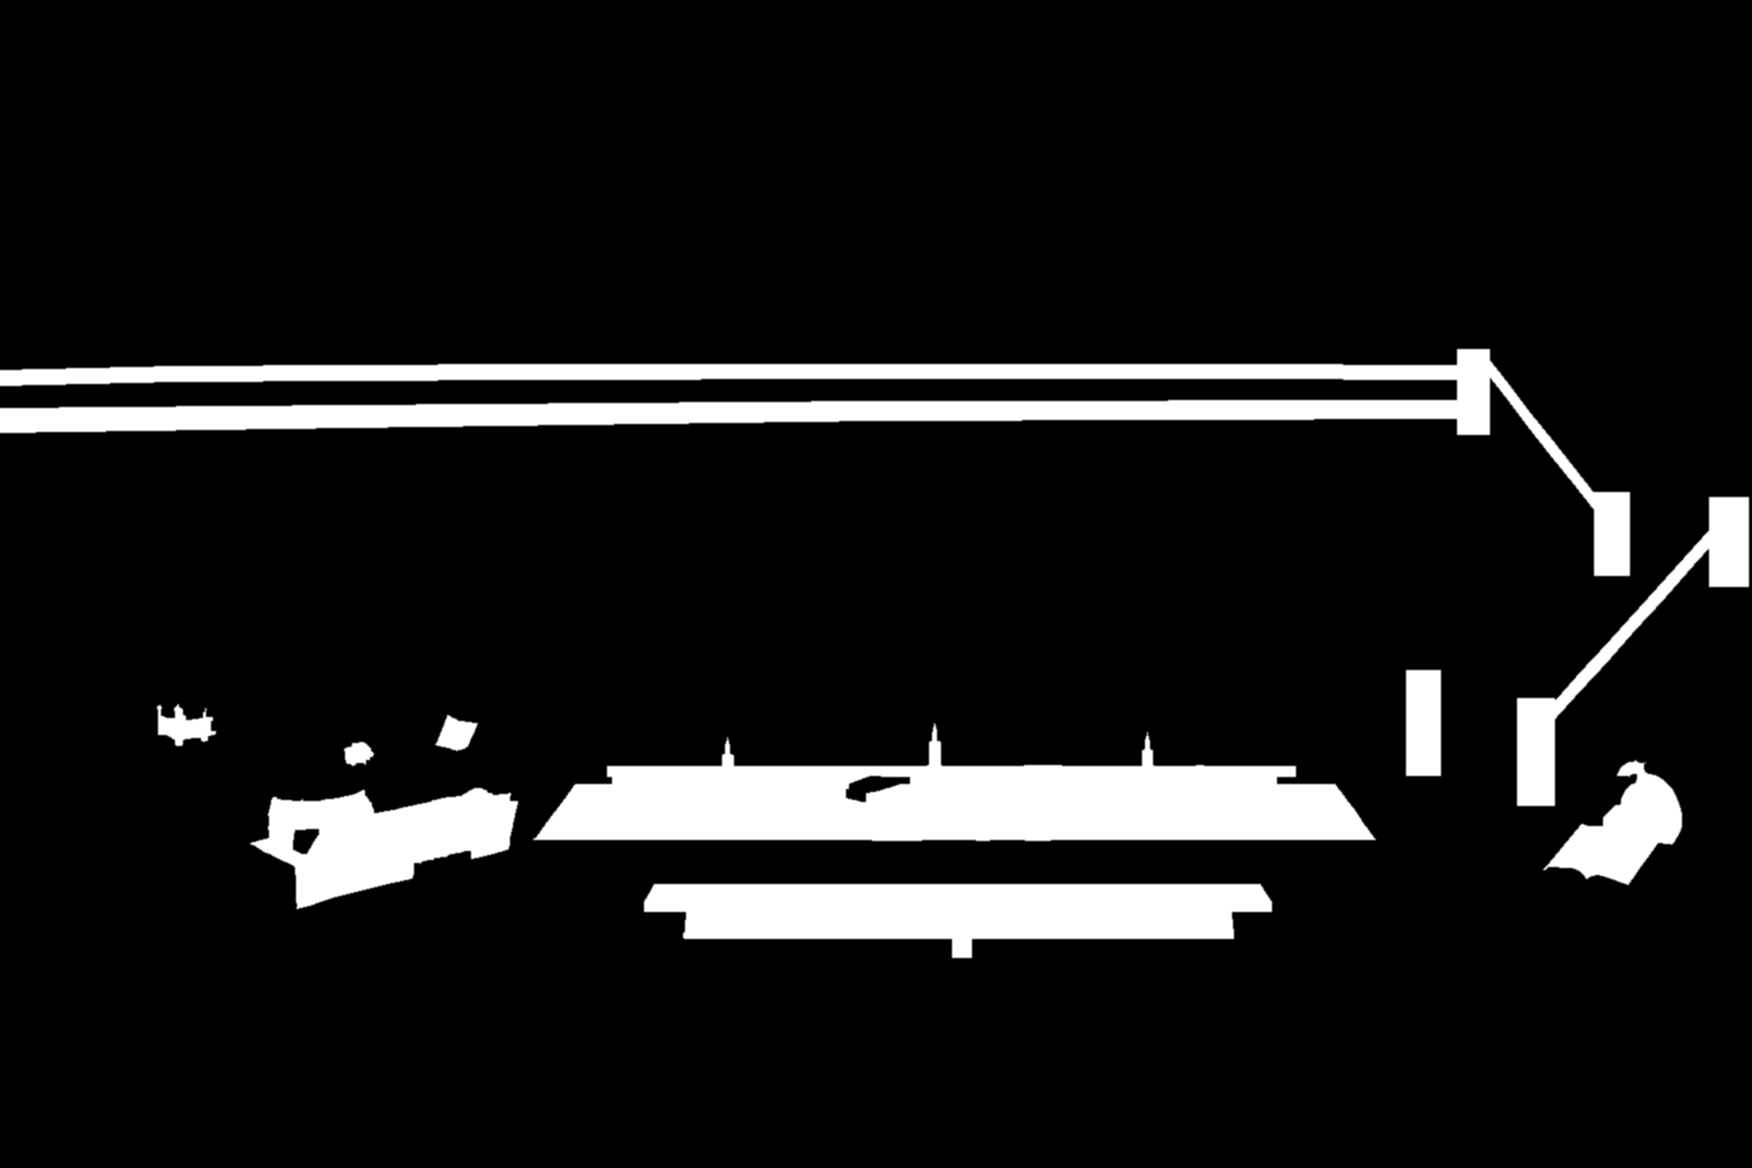
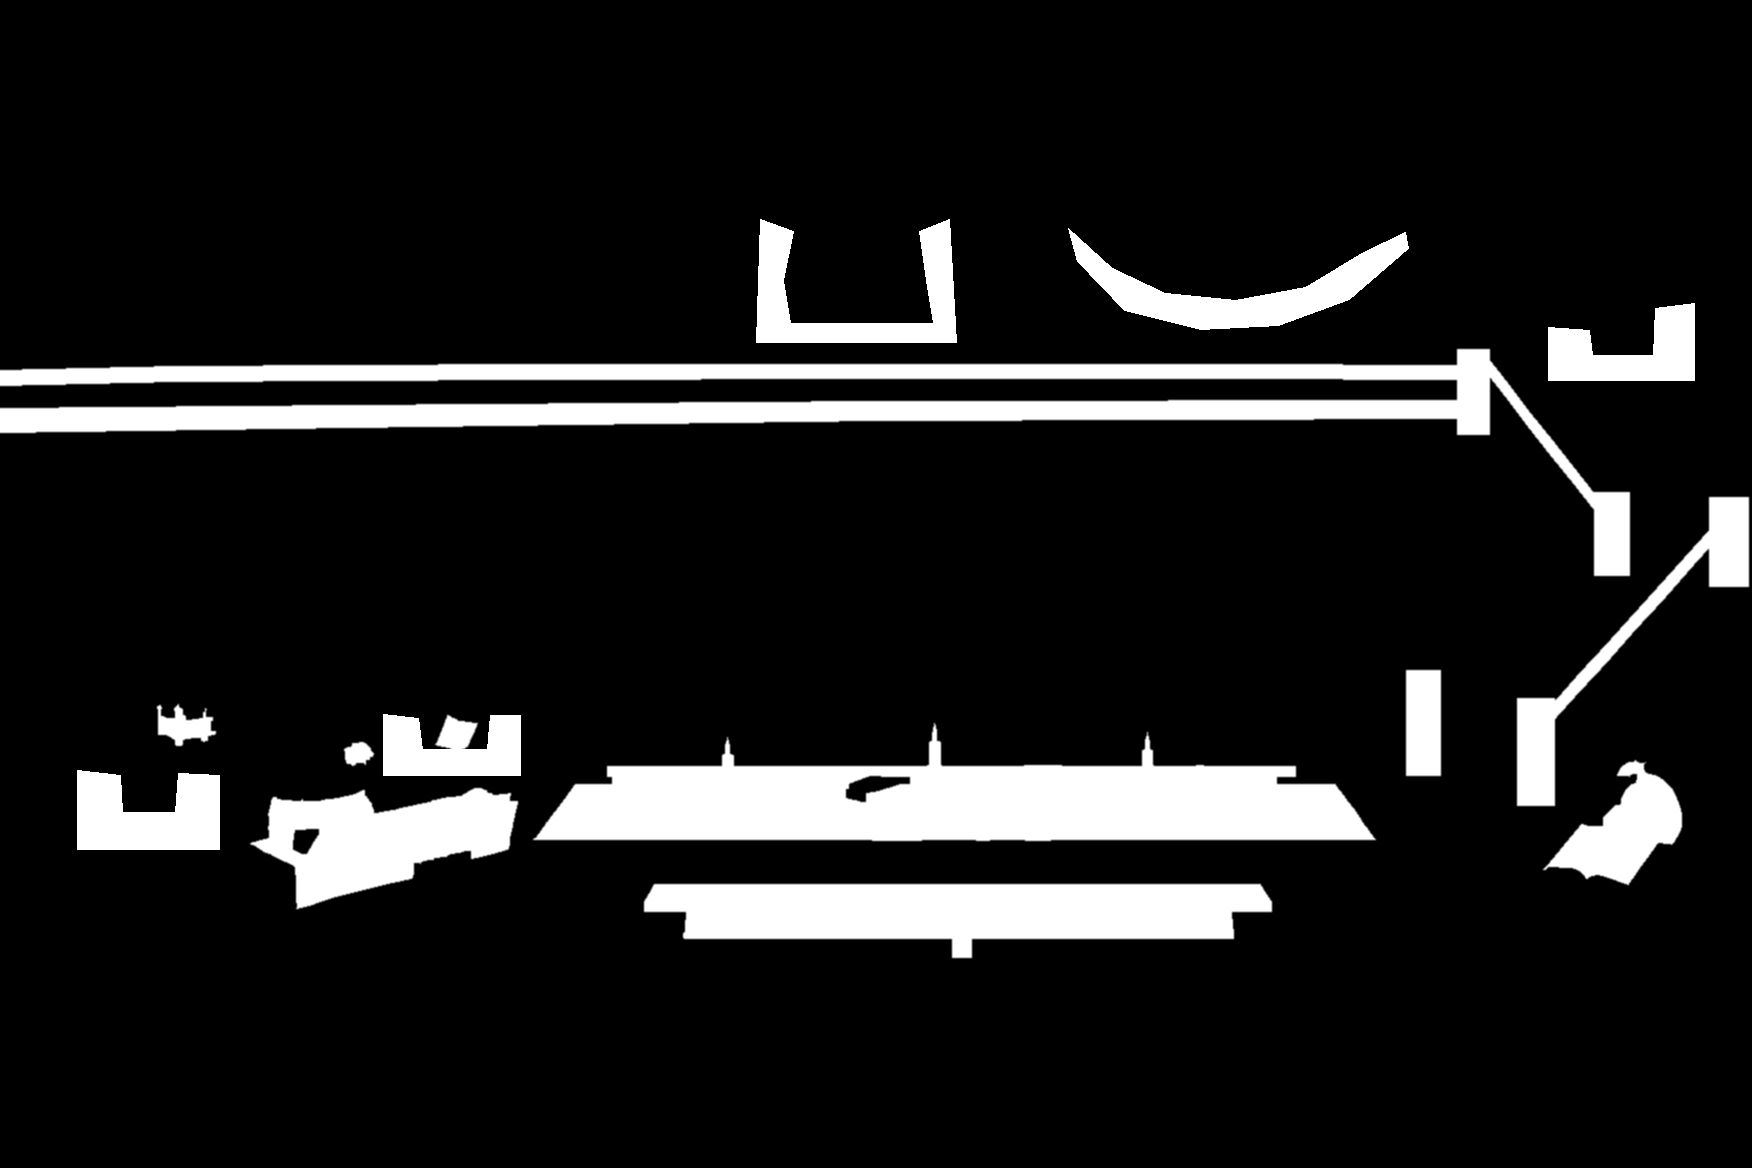
도서관 자세: 1인 소파 기대 앉기, 해먹 눕기(흔들림), 나무 구멍 웅크리기, 창가석 앞보며 서로 살짝 마주보기 + 가구 앞면 덮개로 파묻힌 느낌
Claude-Session: https://claude.ai/code/session_01V1uW48asEmbAkskT1r7mEz

diff --git a/index.html b/index.html
@@ -202,7 +202,7 @@ const PLACES={
     glows:[[52,61,11,'255,160,70',true],[24,27,6,'255,190,110'],[24.5,45,5,'255,190,110'],[35,19,6,'255,190,110'],[55,36,8,'255,200,120'],[72,24,7,'255,190,110'],[69.5,33,4,'255,190,110'],[24.5,52,4,'255,190,110']],
     occ:[{"p":[[41.8,40],[47,40],[47,52.3],[41.8,52.3]],"b":52},{"p":[[53,15.5],[55.8,15.5],[55.6,50.5],[53.3,50.5]],"b":50},{"p":[[69.8,19],[74.2,19],[74,34],[72.5,34],[72.5,55.5],[70,55.5]],"b":55},{"p":[[33.8,57],[38,54],[41.3,56.5],[42.3,62],[40.3,69.5],[35,66.5],[33.8,62]],"b":66},{"p":[[59,52.5],[63,49.8],[66,52],[66.3,58],[64.5,63.3],[59.3,61]],"b":61.5},{"p":[[29.8,66.5],[37.3,66.5],[37.3,76],[29.8,76]],"b":75.5},{"p":[[65.3,55],[72.3,55],[72.3,66.3],[65.3,66.3]],"b":65.5},{"p":[[40.3,68],[44,67],[50,69],[50,74.5],[46,75.2],[40.3,72.5]],"b":74.5},{"p":[[56.3,67],[62,65.5],[64.3,67.5],[63.5,72],[58,74],[56.3,71]],"b":73},{"p":[[46.3,59],[52,56.5],[57.8,59],[58.3,66],[52,70],[46.3,66]],"b":69},{"p":[[61.3,71],[68.5,71],[68.5,81.3],[61.3,81.3]],"b":80.5},{"p":[[42.6,56.5],[46.3,56.5],[46,61.5],[43,61.5]],"b":61.2},{"p":[[55,58],[58.3,58],[58,63],[55.3,63]],"b":62.8},{"p":[[56.2,78.5],[60.8,78.5],[60.5,86],[56.5,86]],"b":85.5}],
     flies:false,sea:{x0:30,x1:100,y0:22,y1:44}},
-  library:{"label":"도서관","img":"library","ar":1.5,"size":0.1,"charVh":0.137,"gx":240,"gy":160,"fg":1.18,"dust":true,"leaves":[[-2,97,22,11,false],[102,95,20,29,true],[-4,55,14,7,false],[104,60,14,41,true],[6,3,16,5,false],[94,4,16,13,true],[50,104,14,3,false]],"walk":[[[1,68],[3.5,66.5],[13,64.6],[27.5,63.6],[30.5,59.8],[34,58.9],[64,58.9],[79.5,59.3],[80.2,66.8],[81.6,68.4],[88.8,69.3],[92,66],[99,64.2],[99,88],[94,91],[90,99.6],[12,99.6],[6,92],[1,86]],[[81.6,68.4],[88.8,69.3],[97.6,49.2],[91.3,48.8]],[[91,46],[97.8,45.5],[98,50],[91.5,50]],[[84.8,33.2],[89,32.2],[97,45.5],[92,46.5]],[[1,30],[83,30],[84.5,30.3],[98.5,30.8],[98.5,34.2],[90,34.5],[85,35],[60,34.4],[30,34.8],[1,35.2]]],"block":[],"seats":[{"x":8.8,"y":69,"look":[18,70],"ax":9.5,"ay":75},{"x":25.4,"y":64.6,"look":[18,73],"ax":33.2,"ay":61.2},{"x":18.5,"y":71.5,"look":[16,58],"behind":true,"ax":11.5,"ay":74},{"x":25,"y":70.5,"look":[20,58],"behind":true,"ax":33.2,"ay":62.6},{"x":41,"y":76.6,"look":[41,60],"ax":41,"ay":85.2},{"x":49.5,"y":76.6,"look":[49.5,60],"ax":49.5,"ay":85.2},{"x":58,"y":76.6,"look":[58,60],"ax":58,"ay":85.2},{"x":66.5,"y":76.6,"look":[66.5,60],"ax":66.5,"ay":85.2},{"x":39,"y":65.4,"look":[39,85],"behind":true,"ax":39,"ay":61.2},{"x":47,"y":65.4,"look":[47,85],"behind":true,"ax":47,"ay":61.2},{"x":61,"y":65.4,"look":[61,85],"behind":true,"ax":61,"ay":61.2},{"x":69,"y":65.4,"look":[69,85],"behind":true,"ax":69,"ay":61.2},{"x":14.5,"y":27.6,"look":[14.5,45],"ax":14.5,"ay":31.6},{"x":27,"y":27.6,"look":[27,15],"behind":true,"ax":27,"ay":31.6},{"x":50,"y":27.4,"look":[50,45],"ax":50,"ay":31.6},{"x":71.5,"y":25.5,"look":[71.5,45],"ax":71.5,"ay":31.6},{"x":93.2,"y":29.6,"look":[86,34],"ax":88.2,"ay":33}],"exits":[{"poly":[[42,94],[58,94],[58,99.6],[42,99.6]],"to":"plaza","spawn":[48,42.5],"face":[48,60]}],"glows":[[17,53,24,"255,140,55",true],[41,63,5,"255,200,120"],[53,62.5,5,"255,200,120"],[65.5,63,5,"255,200,120"],[93,62,6,"255,200,120"],[89.5,22,6,"255,200,120"],[5,47,5,"255,190,110"],[24.5,45,5,"255,190,110"]],"occ":[{"p":[[4.5,59.3],[9,58.8],[12.3,61],[12.3,67.9],[9.5,68.3],[4.5,66.3]],"b":68,"fp":[[4.4,62.5],[12.4,62.5],[12.4,72.6],[4.4,72.6]]},{"p":[[22.5,55.4],[27,54.9],[29.1,57],[29.1,63.7],[26,64.3],[22.5,62.6]],"b":64,"fp":[[20.5,59.5],[30.5,59.5],[30.5,68.5],[20.5,68.5]]},{"p":[[13.7,59.2],[21.4,59.2],[21.4,67],[13.7,67]],"b":66.8,"fp":[[13.8,62.5],[21.3,62.5],[21.3,66.9],[13.8,66.9]]},{"p":[[13.7,68.5],[23,67.4],[29.7,67.5],[29.7,73.8],[22,78.7],[13.9,78.6]],"b":78.4,"fp":[[13.8,69],[29.8,68.5],[29.8,75],[22.5,79.6],[13.9,79.5]]},{"p":[[30.3,66.4],[34.2,64.2],[34.2,62.5],[40.5,62.5],[40.5,59.5],[42,59.5],[42,62.5],[52.5,62.5],[52.5,59.5],[54,59.5],[54,62.5],[64.8,62.5],[64.8,59.5],[66.3,59.5],[66.3,62.5],[74,62.5],[74,64.2],[78.5,66.4],[78.5,73.5],[76.8,80.6],[73,80.6],[72.5,74.8],[36.5,74.8],[36,80.6],[31.5,80.6],[30.3,73.5]],"b":80.4,"fp":[[32.4,66.4],[76.4,66.4],[76.4,81],[32.4,81]],"fp2":[[34.2,64.2],[74,64.2],[74,66.8],[34.2,66.8]]},{"p":[[36.4,75.2],[72.9,75.2],[72.9,82],[36.4,82]],"b":82,"fp":[[36.4,75.2],[72.9,75.2],[72.9,82],[36.4,82]]},{"p":[[85,59],[92,58],[98.6,62],[98.6,70],[96.2,73.2],[98.2,78.4],[98.6,84.6],[84,84.9],[83.5,79],[88,76],[87,72],[84.5,69]],"b":84.6,"fp":[[84.2,75],[99,75],[99,90.8],[84.2,90.8]]},{"p":[[0,31.7],[10,31.4],[30,31.2],[50,31.2],[70,31.2],[83.3,31.3],[83.3,32.5],[70,32.4],[50,32.4],[30,32.5],[10,32.7],[0,33.0]],"b":37,"band":true},{"p":[[0,35.0],[20,34.7],[50,34.4],[83.3,34.3],[83.3,35.8],[50,36.0],[20,36.6],[0,37.0]],"b":37,"band":true},{"p":[[80.3,57.4],[82.2,57.4],[82.2,66.4],[80.3,66.4]],"b":66.6,"band":true,"fp":[[80.3,63],[82.2,63],[82.2,66.4],[80.3,66.4]],"thin":true},{"p":[[86.6,59.8],[88.7,59.8],[88.7,69],[86.6,69]],"b":69.2,"band":true,"fp":[[86.6,66],[88.7,66],[88.7,69],[86.6,69]],"thin":true},{"p":[[91,42.2],[93,42.2],[93,49.3],[91,49.3]],"b":49.6,"band":true,"fp":[[91,47],[93,47],[93,49.3],[91,49.3]],"thin":true},{"p":[[97.6,42.6],[99.8,42.6],[99.8,50.2],[97.6,50.2]],"b":50.4,"band":true},{"p":[[83.2,29.9],[85,29.9],[85,37.2],[83.2,37.2]],"b":37.4,"band":true},{"p":[[88.6,60.3],[90.17,57.7],[90.17,59.2],[88.6,61.8]],"b":66.8,"band":true},{"p":[[90.17,57.7],[91.73,55.1],[91.73,56.6],[90.17,59.2]],"b":64.2,"band":true},{"p":[[91.73,55.1],[93.3,52.5],[93.3,54.0],[91.73,56.6]],"b":61.6,"band":true},{"p":[[93.3,52.5],[94.87,49.9],[94.87,51.4],[93.3,54.0]],"b":59.0,"band":true},{"p":[[94.87,49.9],[96.43,47.3],[96.43,48.8],[94.87,51.4]],"b":56.4,"band":true},{"p":[[96.43,47.3],[98.0,44.7],[98.0,46.2],[96.43,48.8]],"b":53.8,"band":true},{"p":[[84.9,30.6],[86.14,32.98],[86.14,34.38],[84.9,32.0]],"b":38.48,"band":true},{"p":[[86.14,32.98],[87.38,35.36],[87.38,36.76],[86.14,34.38]],"b":40.86,"band":true},{"p":[[87.38,35.36],[88.62,37.74],[88.62,39.14],[87.38,36.76]],"b":43.24,"band":true},{"p":[[88.62,37.74],[89.86,40.12],[89.86,41.52],[88.62,39.14]],"b":45.62,"band":true},{"p":[[89.86,40.12],[91.1,42.5],[91.1,43.9],[89.86,41.52]],"b":48.0,"band":true}],"flies":false,"sea":null,"book":{"x":86,"y":93},"candles":[{"x":48.259,"y":38.741,"w":2.397,"h":6.122,"u0":0.0,"v0":0.0,"u1":0.125,"v1":0.5},{"x":44.15,"y":42.509,"w":2.312,"h":5.522,"u0":0.125,"v0":0.0,"u1":0.24553571428571427,"v1":0.45104895104895104},{"x":39.555,"y":43.622,"w":2.312,"h":5.693,"u0":0.25,"v0":0.0,"u1":0.3705357142857143,"v1":0.46503496503496505},{"x":58.733,"y":43.579,"w":2.34,"h":5.779,"u0":0.375,"v0":0.0,"u1":0.49702380952380953,"v1":0.47202797202797203},{"x":66.267,"y":45.12,"w":2.255,"h":5.437,"u0":0.5,"v0":0.0,"u1":0.6175595238095238,"v1":0.44405594405594406},{"x":50.856,"y":45.462,"w":2.283,"h":5.437,"u0":0.625,"v0":0.0,"u1":0.7440476190476191,"v1":0.44405594405594406},{"x":36.301,"y":46.704,"w":2.283,"h":5.265,"u0":0.75,"v0":0.0,"u1":0.8690476190476191,"v1":0.43006993006993005},{"x":46.632,"y":47.175,"w":2.283,"h":5.522,"u0":0.875,"v0":0.0,"u1":0.9940476190476191,"v1":0.45104895104895104},{"x":63.042,"y":47.432,"w":2.255,"h":5.094,"u0":0.0,"v0":0.5,"u1":0.11755952380952381,"v1":0.916083916083916},{"x":56.906,"y":48.587,"w":2.312,"h":5.608,"u0":0.125,"v0":0.5,"u1":0.24553571428571427,"v1":0.958041958041958},{"x":41.981,"y":49.572,"w":2.34,"h":5.865,"u0":0.25,"v0":0.5,"u1":0.37202380952380953,"v1":0.9790209790209791},{"x":33.961,"y":50.471,"w":2.283,"h":5.437,"u0":0.375,"v0":0.5,"u1":0.49404761904761907,"v1":0.9440559440559441},{"x":61.073,"y":51.455,"w":2.283,"h":5.351,"u0":0.5,"v0":0.5,"u1":0.6190476190476191,"v1":0.9370629370629371},{"x":69.064,"y":51.413,"w":2.283,"h":5.693,"u0":0.625,"v0":0.5,"u1":0.7440476190476191,"v1":0.965034965034965},{"x":51.313,"y":52.911,"w":2.312,"h":5.265,"u0":0.75,"v0":0.5,"u1":0.8705357142857143,"v1":0.9300699300699301},{"x":38.356,"y":54.752,"w":2.255,"h":5.18,"u0":0.875,"v0":0.5,"u1":0.9925595238095238,"v1":0.9230769230769231}]}
+  library:{"label":"도서관","img":"library","ar":1.5,"size":0.1,"charVh":0.137,"gx":240,"gy":160,"fg":1.18,"dust":true,"leaves":[[-2,97,22,11,false],[102,95,20,29,true],[-4,55,14,7,false],[104,60,14,41,true],[6,3,16,5,false],[94,4,16,13,true],[50,104,14,3,false]],"walk":[[[1,68],[3.5,66.5],[13,64.6],[27.5,63.6],[30.5,59.8],[34,58.9],[64,58.9],[79.5,59.3],[80.2,66.8],[81.6,68.4],[88.8,69.3],[92,66],[99,64.2],[99,88],[94,91],[90,99.6],[12,99.6],[6,92],[1,86]],[[81.6,68.4],[88.8,69.3],[97.6,49.2],[91.3,48.8]],[[91,46],[97.8,45.5],[98,50],[91.5,50]],[[84.8,33.2],[89,32.2],[97,45.5],[92,46.5]],[[1,30],[83,30],[84.5,30.3],[98.5,30.8],[98.5,34.2],[90,34.5],[85,35],[60,34.4],[30,34.8],[1,35.2]]],"block":[],"seats":[{"x":8.8,"y":69,"look":[13,80],"ax":9.5,"ay":75,"pose":"chair","z":69.2},{"x":25.4,"y":64.6,"look":[18,73],"ax":33.2,"ay":61.2,"pose":"chair","z":64.9},{"x":18.5,"y":71.5,"look":[16,58],"behind":true,"ax":11.5,"ay":74},{"x":25,"y":70.5,"look":[20,58],"behind":true,"ax":33.2,"ay":62.6},{"x":41,"y":76.6,"look":[41,60],"ax":41,"ay":85.2},{"x":49.5,"y":76.6,"look":[49.5,60],"ax":49.5,"ay":85.2},{"x":58,"y":76.6,"look":[58,60],"ax":58,"ay":85.2},{"x":66.5,"y":76.6,"look":[66.5,60],"ax":66.5,"ay":85.2},{"x":39,"y":65.4,"look":[39,85],"behind":true,"ax":39,"ay":61.2},{"x":47,"y":65.4,"look":[47,85],"behind":true,"ax":47,"ay":61.2},{"x":61,"y":65.4,"look":[61,85],"behind":true,"ax":61,"ay":61.2},{"x":69,"y":65.4,"look":[69,85],"behind":true,"ax":69,"ay":61.2},{"x":17,"y":29.7,"look":[21.5,40],"ax":17,"ay":32.4,"pose":"perch"},{"x":25,"y":29.7,"look":[20.5,40],"ax":25,"ay":32.4,"pose":"perch"},{"x":48.6,"y":27.3,"look":[48.6,40],"ax":50,"ay":31.6,"pose":"nook","z":28.2},{"x":70.5,"y":26.2,"look":[70.5,40],"ax":71.5,"ay":31.6,"pose":"lie","z":27.0},{"x":92.6,"y":30.6,"look":[89,44],"ax":88.2,"ay":33,"pose":"chair","z":31.4}],"exits":[{"poly":[[42,94],[58,94],[58,99.6],[42,99.6]],"to":"plaza","spawn":[48,42.5],"face":[48,60]}],"glows":[[17,53,24,"255,140,55",true],[41,63,5,"255,200,120"],[53,62.5,5,"255,200,120"],[65.5,63,5,"255,200,120"],[93,62,6,"255,200,120"],[89.5,22,6,"255,200,120"],[5,47,5,"255,190,110"],[24.5,45,5,"255,190,110"]],"occ":[{"p":[[4.5,59.3],[9,58.8],[12.3,61],[12.3,67.9],[9.5,68.3],[4.5,66.3]],"b":68,"fp":[[4.4,62.5],[12.4,62.5],[12.4,72.6],[4.4,72.6]]},{"p":[[22.5,55.4],[27,54.9],[29.1,57],[29.1,63.7],[26,64.3],[22.5,62.6]],"b":64,"fp":[[20.5,59.5],[30.5,59.5],[30.5,68.5],[20.5,68.5]]},{"p":[[13.7,59.2],[21.4,59.2],[21.4,67],[13.7,67]],"b":66.8,"fp":[[13.8,62.5],[21.3,62.5],[21.3,66.9],[13.8,66.9]]},{"p":[[13.7,68.5],[23,67.4],[29.7,67.5],[29.7,73.8],[22,78.7],[13.9,78.6]],"b":78.4,"fp":[[13.8,69],[29.8,68.5],[29.8,75],[22.5,79.6],[13.9,79.5]]},{"p":[[30.3,66.4],[34.2,64.2],[34.2,62.5],[40.5,62.5],[40.5,59.5],[42,59.5],[42,62.5],[52.5,62.5],[52.5,59.5],[54,59.5],[54,62.5],[64.8,62.5],[64.8,59.5],[66.3,59.5],[66.3,62.5],[74,62.5],[74,64.2],[78.5,66.4],[78.5,73.5],[76.8,80.6],[73,80.6],[72.5,74.8],[36.5,74.8],[36,80.6],[31.5,80.6],[30.3,73.5]],"b":80.4,"fp":[[32.4,66.4],[76.4,66.4],[76.4,81],[32.4,81]],"fp2":[[34.2,64.2],[74,64.2],[74,66.8],[34.2,66.8]]},{"p":[[36.4,75.2],[72.9,75.2],[72.9,82],[36.4,82]],"b":82,"fp":[[36.4,75.2],[72.9,75.2],[72.9,82],[36.4,82]]},{"p":[[85,59],[92,58],[98.6,62],[98.6,70],[96.2,73.2],[98.2,78.4],[98.6,84.6],[84,84.9],[83.5,79],[88,76],[87,72],[84.5,69]],"b":84.6,"fp":[[84.2,75],[99,75],[99,90.8],[84.2,90.8]]},{"p":[[0,31.7],[10,31.4],[30,31.2],[50,31.2],[70,31.2],[83.3,31.3],[83.3,32.5],[70,32.4],[50,32.4],[30,32.5],[10,32.7],[0,33.0]],"b":37,"band":true},{"p":[[0,35.0],[20,34.7],[50,34.4],[83.3,34.3],[83.3,35.8],[50,36.0],[20,36.6],[0,37.0]],"b":37,"band":true},{"p":[[80.3,57.4],[82.2,57.4],[82.2,66.4],[80.3,66.4]],"b":66.6,"band":true,"fp":[[80.3,63],[82.2,63],[82.2,66.4],[80.3,66.4]],"thin":true},{"p":[[86.6,59.8],[88.7,59.8],[88.7,69],[86.6,69]],"b":69.2,"band":true,"fp":[[86.6,66],[88.7,66],[88.7,69],[86.6,69]],"thin":true},{"p":[[91,42.2],[93,42.2],[93,49.3],[91,49.3]],"b":49.6,"band":true,"fp":[[91,47],[93,47],[93,49.3],[91,49.3]],"thin":true},{"p":[[97.6,42.6],[99.8,42.6],[99.8,50.2],[97.6,50.2]],"b":50.4,"band":true},{"p":[[83.2,29.9],[85,29.9],[85,37.2],[83.2,37.2]],"b":37.4,"band":true},{"p":[[88.6,60.3],[90.17,57.7],[90.17,59.2],[88.6,61.8]],"b":66.8,"band":true},{"p":[[90.17,57.7],[91.73,55.1],[91.73,56.6],[90.17,59.2]],"b":64.2,"band":true},{"p":[[91.73,55.1],[93.3,52.5],[93.3,54.0],[91.73,56.6]],"b":61.6,"band":true},{"p":[[93.3,52.5],[94.87,49.9],[94.87,51.4],[93.3,54.0]],"b":59.0,"band":true},{"p":[[94.87,49.9],[96.43,47.3],[96.43,48.8],[94.87,51.4]],"b":56.4,"band":true},{"p":[[96.43,47.3],[98.0,44.7],[98.0,46.2],[96.43,48.8]],"b":53.8,"band":true},{"p":[[84.9,30.6],[86.14,32.98],[86.14,34.38],[84.9,32.0]],"b":38.48,"band":true},{"p":[[86.14,32.98],[87.38,35.36],[87.38,36.76],[86.14,34.38]],"b":40.86,"band":true},{"p":[[87.38,35.36],[88.62,37.74],[88.62,39.14],[87.38,36.76]],"b":43.24,"band":true},{"p":[[88.62,37.74],[89.86,40.12],[89.86,41.52],[88.62,39.14]],"b":45.62,"band":true},{"p":[[89.86,40.12],[91.1,42.5],[91.1,43.9],[89.86,41.52]],"b":48.0,"band":true},{"p":[[4.4,66],[6.9,66.4],[7,69.6],[10,69.6],[10.2,66.2],[12.5,66.4],[12.5,72.7],[4.4,72.7]],"b":72.8,"band":true,"ov":true},{"p":[[21.9,61.2],[23.9,61.5],[24.1,64.2],[27.8,64.2],[28,61.3],[29.7,61.3],[29.7,66.4],[21.9,66.4]],"b":66.5,"band":true,"ov":true},{"p":[[43.4,18.8],[45.3,19.8],[44.7,24],[45.1,27.7],[53.3,27.7],[52.9,24],[52.5,19.8],[54.2,18.8],[54.6,29.3],[43.2,29.3]],"b":29.4,"band":true,"ov":true},{"p":[[61,19.6],[63.5,23],[66.5,25.1],[70.5,25.7],[74.5,24.6],[77.8,21.6],[80.2,19.9],[80.4,21.3],[77,25.6],[73,27.9],[68.5,28.2],[64.2,26.6],[61.5,22.4]],"b":28.4,"band":true,"ov":true},{"p":[[88.4,28],[90.7,28.3],[90.9,30.4],[94.4,30.4],[94.5,26.4],[96.7,26],[96.7,32.6],[88.4,32.6]],"b":32.7,"band":true,"ov":true}],"flies":false,"sea":null,"book":{"x":86,"y":93},"candles":[{"x":48.259,"y":38.741,"w":2.397,"h":6.122,"u0":0.0,"v0":0.0,"u1":0.125,"v1":0.5},{"x":44.15,"y":42.509,"w":2.312,"h":5.522,"u0":0.125,"v0":0.0,"u1":0.24553571428571427,"v1":0.45104895104895104},{"x":39.555,"y":43.622,"w":2.312,"h":5.693,"u0":0.25,"v0":0.0,"u1":0.3705357142857143,"v1":0.46503496503496505},{"x":58.733,"y":43.579,"w":2.34,"h":5.779,"u0":0.375,"v0":0.0,"u1":0.49702380952380953,"v1":0.47202797202797203},{"x":66.267,"y":45.12,"w":2.255,"h":5.437,"u0":0.5,"v0":0.0,"u1":0.6175595238095238,"v1":0.44405594405594406},{"x":50.856,"y":45.462,"w":2.283,"h":5.437,"u0":0.625,"v0":0.0,"u1":0.7440476190476191,"v1":0.44405594405594406},{"x":36.301,"y":46.704,"w":2.283,"h":5.265,"u0":0.75,"v0":0.0,"u1":0.8690476190476191,"v1":0.43006993006993005},{"x":46.632,"y":47.175,"w":2.283,"h":5.522,"u0":0.875,"v0":0.0,"u1":0.9940476190476191,"v1":0.45104895104895104},{"x":63.042,"y":47.432,"w":2.255,"h":5.094,"u0":0.0,"v0":0.5,"u1":0.11755952380952381,"v1":0.916083916083916},{"x":56.906,"y":48.587,"w":2.312,"h":5.608,"u0":0.125,"v0":0.5,"u1":0.24553571428571427,"v1":0.958041958041958},{"x":41.981,"y":49.572,"w":2.34,"h":5.865,"u0":0.25,"v0":0.5,"u1":0.37202380952380953,"v1":0.9790209790209791},{"x":33.961,"y":50.471,"w":2.283,"h":5.437,"u0":0.375,"v0":0.5,"u1":0.49404761904761907,"v1":0.9440559440559441},{"x":61.073,"y":51.455,"w":2.283,"h":5.351,"u0":0.5,"v0":0.5,"u1":0.6190476190476191,"v1":0.9370629370629371},{"x":69.064,"y":51.413,"w":2.283,"h":5.693,"u0":0.625,"v0":0.5,"u1":0.7440476190476191,"v1":0.965034965034965},{"x":51.313,"y":52.911,"w":2.312,"h":5.265,"u0":0.75,"v0":0.5,"u1":0.8705357142857143,"v1":0.9300699300699301},{"x":38.356,"y":54.752,"w":2.255,"h":5.18,"u0":0.875,"v0":0.5,"u1":0.9925595238095238,"v1":0.9230769230769231}]}
 };
 const inPoly=(x,y,p)=>{let c=false;for(let i=0,j=p.length-1;i<p.length;j=i++){const[xi,yi]=p[i],[xj,yj]=p[j];if((yi>y)!==(yj>y)&&x<(xj-xi)*(y-yi)/(yj-yi)+xi)c=!c;}return c;};
 const inE=(x,y,e)=>((x-e.cx)/e.rx)**2+((y-e.cy)/e.ry)**2<=1;
@@ -319,7 +319,7 @@ function makeChar(name,x,y,isMe){const g=new THREE.Group(),tilt=new THREE.Group(
 function removeChar(c){scene.remove(c.g);c.tag.remove();if(c.bub)c.bub.remove();}
 const faceTo=(c,tx,ty)=>{c.face=Math.atan2(-(ty-c.y),(tx-c.x)*AR);};
 function say(c,text){if(c.bub)c.bub.remove();const b=document.createElement('div');b.className='bub';b.textContent=text;tagsEl.appendChild(b);c.bub=b;c.bubT=5.5;}
-function seatZ(s){if(s.behind)return s.y;let z=s.y;(P.occ||[]).forEach(o=>{if(inPoly(s.x,s.y,o.p))z=Math.max(z,o.b);});return z+0.6;}
+function seatZ(s){if(s.z!=null)return s.z;if(s.behind)return s.y;let z=s.y;(P.occ||[]).forEach(o=>{if(inPoly(s.x,s.y,o.p))z=Math.max(z,o.b);});return z+0.6;}
 const charH=(y)=>(P.sizeW?SW*P.sizeW:SH*P.size)*(0.78+0.45*y/100);
 function place(c,t){const px=c.x/100*SW,py=c.y/100*SH,s=charH(c.y);const zy=c.sitting&&c.seat?seatZ(c.seat)/100*SH:py;c.g.position.set(px,-py,zy*ZK);c.g.scale.setScalar(s);
   const moving=!!(c.path&&c.path.length);
@@ -327,7 +327,12 @@ function place(c,t){const px=c.x/100*SW,py=c.y/100*SH,s=charH(c.y);const zy=c.si
   if(moving)c.walk+=dt*(7+40*c.speed);
   c.u.uPhase.value=c.walk;c.u.uWalk.value=c.wW;c.u.uSit.value=c.sW;
   const ph=c.walk;c.body.position.y=0.5+Math.abs(Math.sin(ph))*0.03*c.wW-0.2*c.sW+(1-c.wW)*(1-c.sW)*Math.sin(t*2.2+c.x)*0.006;
-  c.body.rotation.x=Math.sin(ph)*0.07*c.wW;c.body.rotation.z=-0.06*c.wW;
+  const pose=c.sitting&&c.seat?c.seat.pose:null;c.pW=c.pW||{};for(const k of ['chair','nook','lie','perch']){c.pW[k]=(c.pW[k]||0)+(((pose===k)?1:0)-(c.pW[k]||0))*Math.min(1,dt*6);}
+  const pc=c.pW.chair,pn=c.pW.nook,pl=c.pW.lie,pp=c.pW.perch;
+  c.body.rotation.x=Math.sin(ph)*0.07*c.wW+pl*(1.42+Math.sin(t*0.9)*0.05);
+  c.body.rotation.z=-0.06*c.wW+pc*0.2+pn*0.34+pp*0.05;
+  c.body.position.y+=-0.05*pc-0.08*pn+pl*(-0.12+Math.sin(t*0.9)*0.01);
+  c.u.uSit.value=c.sW*(1-0.75*pl)+pn*0.15;
   let d=c.face-c.turn.rotation.y;d=Math.atan2(Math.sin(d),Math.cos(d));c.turn.rotation.y+=d*0.2;
   const top=py-s*(c.sitting?0.78:0.98);c.tag.style.left=px+'px';c.tag.style.top=top+'px';
   if(c.bub){c.bub.style.left=px+'px';c.bub.style.top=(top-18)+'px';}}
